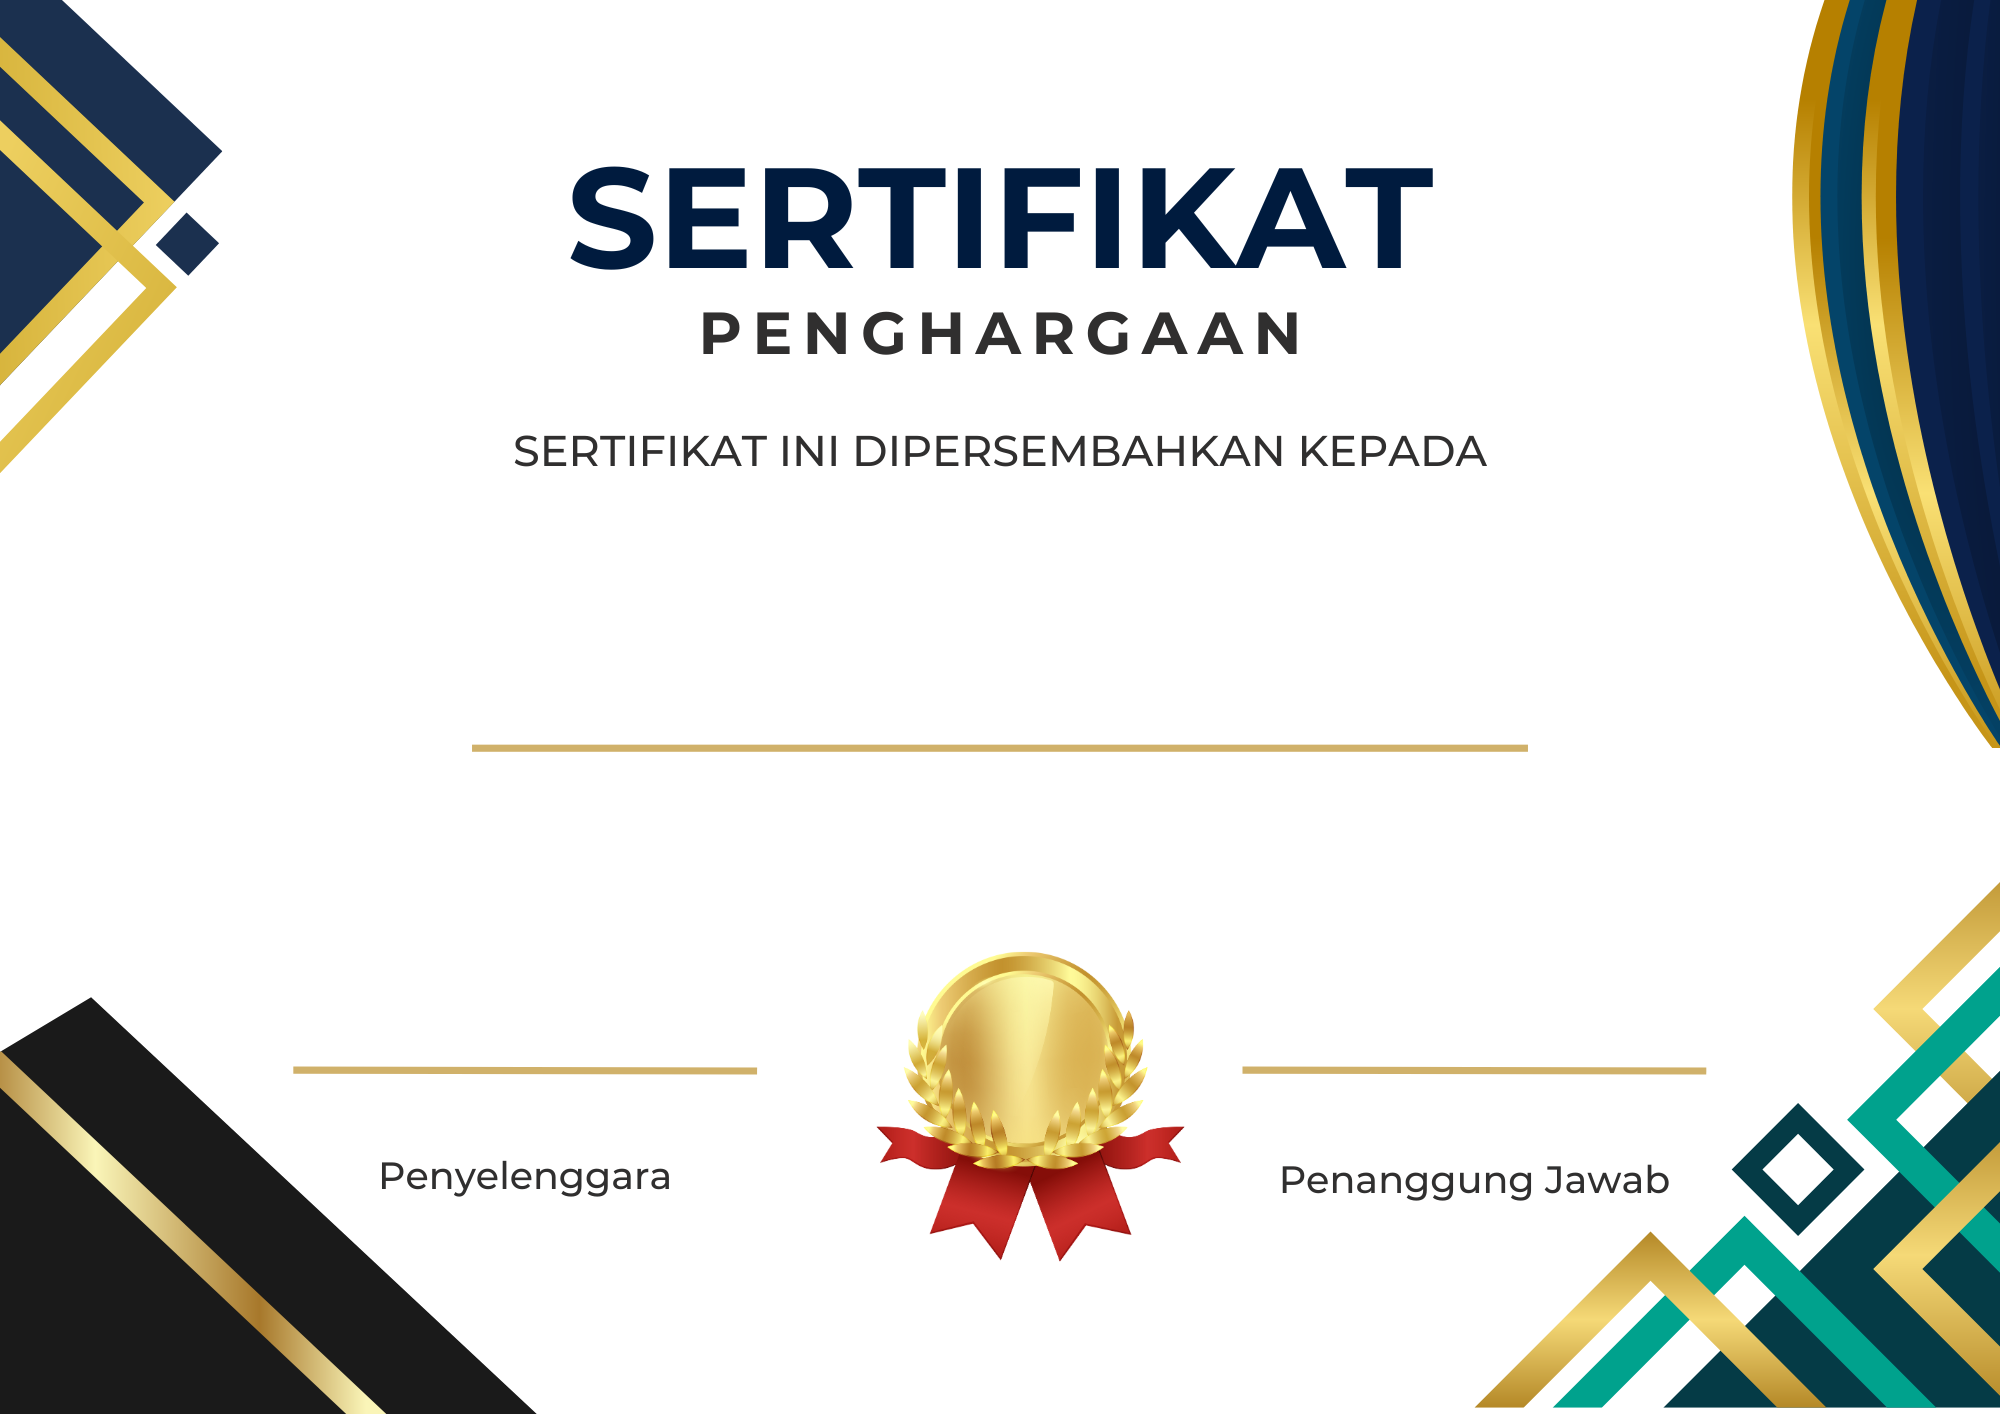
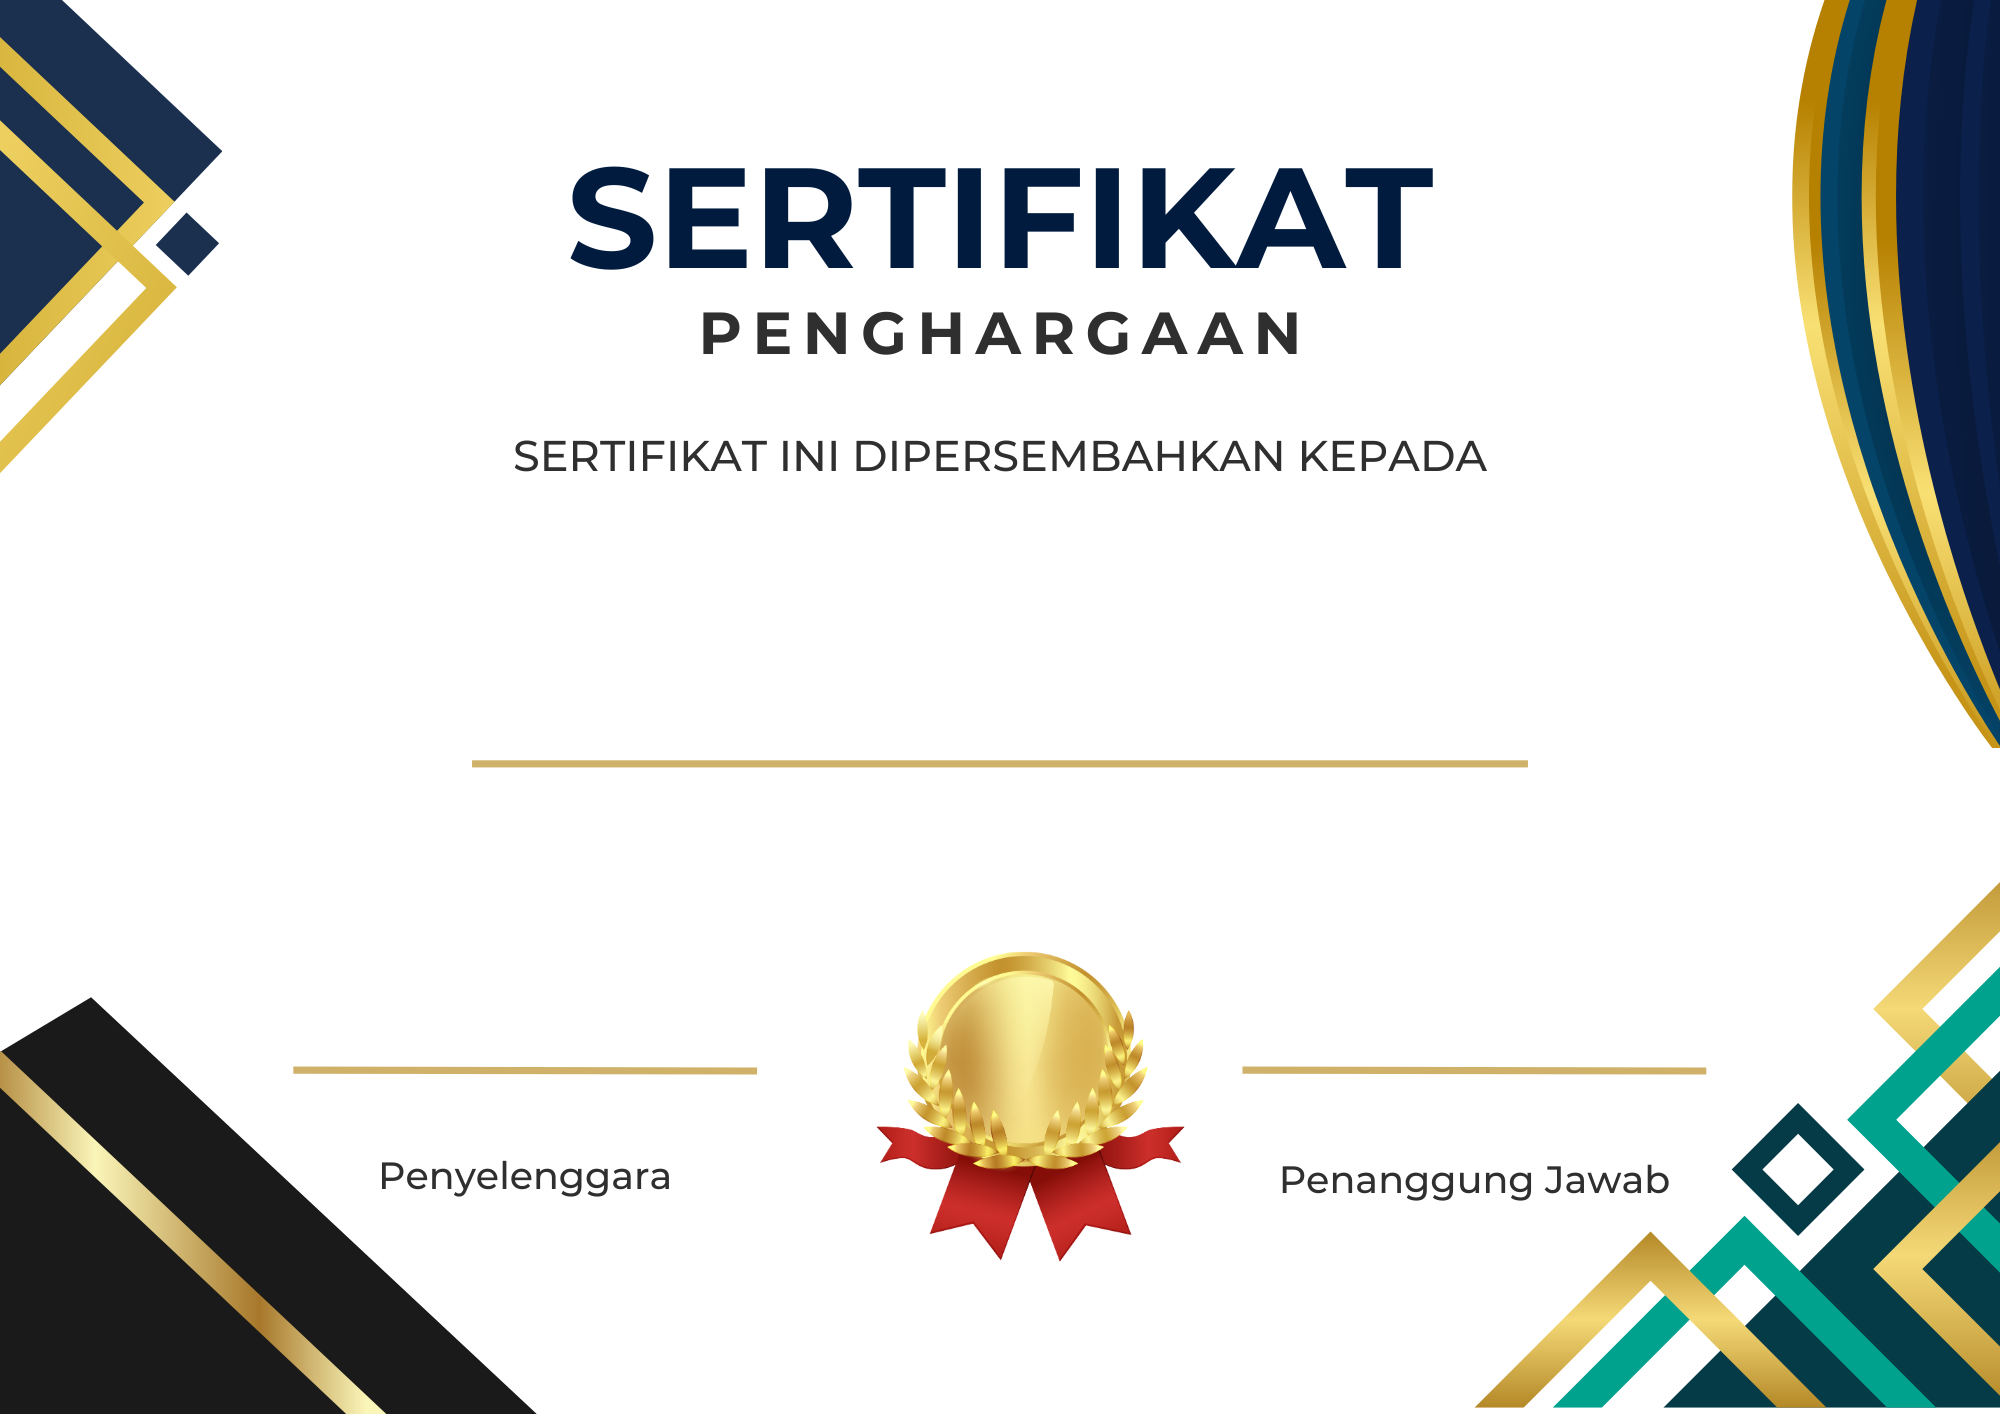
add & fix: add new feature create certificate (not fixed yet) and fix design certificate

Changed region(s): [[0.217, 0.529, 0.775, 0.5601], [0.403, 0.3112, 0.744, 0.3423], [0.248, 0.3112, 0.372, 0.3423]]

diff --git a/src/dashboard/certificate/cert.php b/src/dashboard/certificate/cert.php
@@ -5,26 +5,47 @@ error_reporting(E_ALL);
 ini_set('display_errors', 1);
 
 include '../../service/connection.php';
-
-
+include '../../service/utility.php';
 require('../../service/fpdf186/fpdf.php');
+
+// get user details
+
+$getCert = $conn->query("SELECT c.*, cf.field_name, cf.field_value, u.*, e.*
+            FROM certificates c
+            JOIN certificate_fields cf ON c.id = cf.certificate_id 
+            JOIN users u ON c.user_id = u.id 
+            JOIN courses e ON c.event_id = e.id 
+            WHERE c.certificate_code = '7SFVL9lmfz-2024'")->fetch_array();
 
 header("content-type: application/png");
 
 $fontBold = "../../assets/font/montserrat/static/Montserrat-Bold.ttf";
 $font = "../../assets/font/montserrat/static/Montserrat-Light.ttf";
 
+$width = 2000;
+$height = 1414;
+
 $time = time();
 
-$img = imagecreatefrompng("../../assets/uploads/templates/template3.png");
-$color = imagecolorallocate($img,19,21,22);
+$img = imagecreatefrompng("../../assets/uploads/templates/".$getCert['certificate_template'].".png");
+$color = imagecolorallocate($img, 19, 21, 22);
 
-imagettftext($img, 60,0,620,720,$color,$fontBold, "Ayu jhyg uygjmhbv");
-imagettftext($img, 29,0,520,820,$color,$font, "Untuk menyelesaikan pelatihan Desain Grafis yang");
-imagettftext($img, 29,0,480,865,$color,$font, "diselenggarakan oleh Liceria & Co pada 28 Agustus 2023");
+$firstLineText = "Untuk menyelesaikan pelatihan " . $getCert['event_name'] . " yang";
+$secondLineText = "diselenggarakan oleh Liceria & Co pada " . hummanDate($getCert['event_date']);
 
-imagettftext($img, 30,0,320,1130,$color,$fontBold, "Ayu jhyg uygjmhbv");
-imagettftext($img, 30,0,1270,1130,$color,$fontBold, "Ayu jhyg uygjmhbv");
+$certificateIdCenter = calculateTextCenter($getCert['certificate_code'], $fontBold, 25);
+$participantCenterName = calculateTextCenter($getCert['full_name'], $fontBold, 60);
+$firstLineTextCenter = calculateTextCenter($firstLineText, $font, 29);
+$secondLineTextCenter = calculateTextCenter($secondLineText, $font, 29);
+
+$organizationCenter = calculateHalfWidthTextCenter($getCert['organizer'], $fontBold, 30);
+
+imagettftext($img, 25, 0, $certificateIdCenter[0], $certificateIdCenter[1] + 600, $color, $fontBold, $getCert['certificate_code']);
+imagettftext($img, 60, 0, $participantCenterName[0], $participantCenterName[1], $color, $fontBold, $getCert['full_name']);
+imagettftext($img, 29, 0, $firstLineTextCenter[0], $firstLineTextCenter[1] + 100, $color, $font, $firstLineText);
+imagettftext($img, 29, 0, $secondLineTextCenter[0], $secondLineTextCenter[1] + 150, $color, $font, $secondLineText);
+imagettftext($img, 30, 0, $organizationCenter[0] + 30, 1130, $color, $fontBold, $getCert['organizer']);
+imagettftext($img, 30, 0, $organizationCenter[0] * 3 + 50, 1130, $color, $fontBold, $getCert['organizer']);
 
 
 imagepng($img, "../../assets/uploads/$time.png");
@@ -33,6 +54,50 @@ imagedestroy($img);
 $pdf = new FPDF();
 $pdf->AddPage("L", "A5");
 
-$pdf->Image("../../assets/uploads/$time.png", 0,0,210,148);
+$pdf->Image("../../assets/uploads/$time.png", 0, 0, 210, 148);
 ob_end_clean();
 $pdf->Output();
+
+function calculateTextCenter($text, $typeFont, $fontSize)
+{
+  global $height, $width;
+
+  // Define the font size and path to the TTF font file
+  // $fontSize = 60;
+
+  $bbox = imagettfbbox($fontSize, 0, $typeFont, $text);
+
+  // Calculate the width of the text
+  $textWidth = abs($bbox[2] - $bbox[0]);
+
+  // Calculate the x-coordinate to center the text
+  $x = ($width - $textWidth) / 2;
+
+  // Set the y-coordinate (you can adjust this value)
+  $y = ($height / 2) + ($fontSize / 2);
+
+  return [$x, $y];
+}
+
+function calculateHalfWidthTextCenter($text, $typeFont, $fontSize)
+{
+  global $height, $width;
+
+  // Define the font size and path to the TTF font file
+  // $fontSize = 60;
+
+  $width = $width / 2;
+
+  $bbox = imagettfbbox($fontSize, 0, $typeFont, $text);
+
+  // Calculate the width of the text
+  $textWidth = abs($bbox[2] - $bbox[0]);
+
+  // Calculate the x-coordinate to center the text
+  $x = ($width - $textWidth) / 2;
+
+  // Set the y-coordinate (you can adjust this value)
+  $y = ($height / 2) + ($fontSize / 2);
+
+  return [$x, $y];
+}

diff --git a/src/service/utility.php b/src/service/utility.php
@@ -6,15 +6,52 @@ function redirect(string $fileName, string $message = "", string $type = 'succes
   if (isset($message)) {
     $_SESSION[$type] = $message;
   }
-  
+
   header('Location: ../' . $fileName);
   exit();
 }
 
 function debug($var)
 {
-  print_r($var); die;
-} 
+  print_r($var);
+  die;
+}
+
+function hummanDate($inputDate)
+{
+  return date("j F Y", strtotime($inputDate));
+  // // Create a DateTime object from the input date
+  // $dateTime = DateTime::createFromFormat('y-m-d', $inputDate);
+  // // Check if the date was created successfully
+
+  // if ($dateTime) {
+  //   // Format the date to "d F Y"
+  //   $formattedDate = $dateTime->format('d F Y');
+
+  //   // Replace the English month with the Indonesian month
+  //   $indonesianMonths = [
+  //     'January' => 'Januari',
+  //     'February' => 'Februari',
+  //     'March' => 'Maret',
+  //     'April' => 'April',
+  //     'May' => 'Mei',
+  //     'June' => 'Juni',
+  //     'July' => 'Juli',
+  //     'August' => 'Agustus',
+  //     'September' => 'September',
+  //     'October' => 'Oktober',
+  //     'November' => 'November',
+  //     'December' => 'Desember',
+  //   ];
+
+  //   // Replace the month in the formatted date
+  //   // $formattedDate = str_replace(array_keys($indonesianMonths), array_values($indonesianMonths), $formattedDate);
+
+  //   return $formattedDate; // Output: 15 Juni 2024
+  // } else {
+  //   return false;
+  // }
+}
 
 function get_gravatar(
   $email,
@@ -55,13 +92,14 @@ function get_gravatar(
   return $url;
 }
 
-function generateRandomString($length = 10) {
+function generateRandomString($length = 10)
+{
   $characters = '0123456789abcdefghijklmnopqrstuvwxyzABCDEFGHIJKLMNOPQRSTUVWXYZ';
   $charactersLength = strlen($characters);
   $randomString = '';
 
   for ($i = 0; $i < $length; $i++) {
-      $randomString .= $characters[random_int(0, $charactersLength - 1)];
+    $randomString .= $characters[random_int(0, $charactersLength - 1)];
   }
 
   return $randomString;

diff --git a/src/cek-sertifikat.php b/src/cek-sertifikat.php
@@ -8,16 +8,20 @@ if ($_SERVER["REQUEST_METHOD"] == "POST") {
     if (isset($_POST['cari'])) {
         $id = htmlspecialchars($_POST['id']);
 
-        $getCert = $conn->query("SELECT c.*, cf.field_name, cf.field_value, u.*
+        $getCert = $conn->query("SELECT c.*, cf.field_name, cf.field_value, u.*, e.*
             FROM certificates c
             JOIN certificate_fields cf ON c.id = cf.certificate_id 
-            JOIN users u ON c.user_id = u.id WHERE c.certificate_code = '$id'");
+            JOIN users u ON c.user_id = u.id 
+            JOIN courses e ON c.event_id = e.id 
+            WHERE c.certificate_code = '$id'");
 
         if ($getCert->num_rows < 1) {
             return redirect("src/cek-sertifikat.php", "Sertifikat tidak tersedia", "error");
         }
 
-        print_r($getCert->fetch_array());
+        $ceertificationDetails = $getCert->fetch_array();
+
+        print_r($ceertificationDetails);
     }
 }
 ?>
